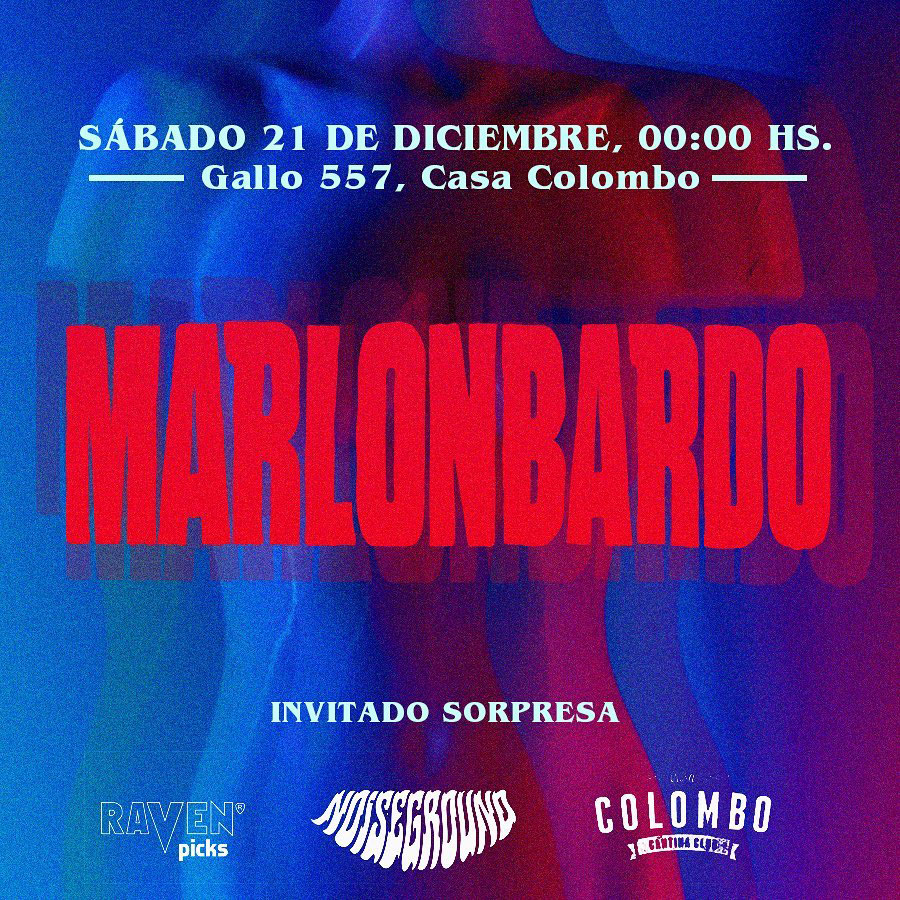
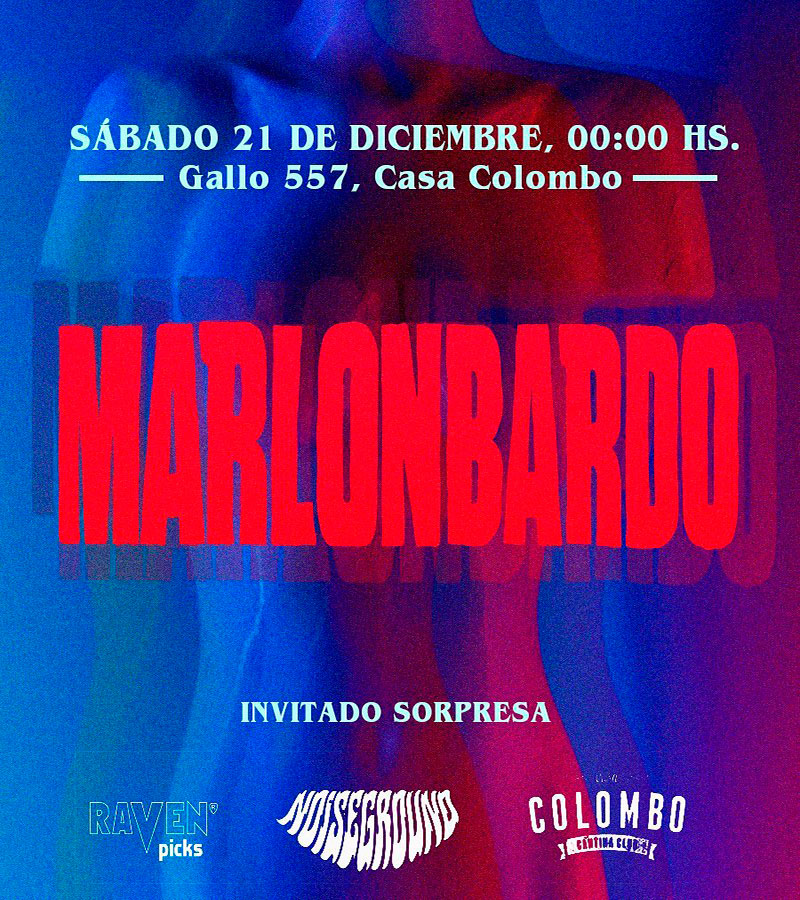
modifico tamaño imagenes

diff --git a/novedades.html b/novedades.html
@@ -54,12 +54,12 @@
   <!-- Fechas en vivo -->
 
     <div class="container col-sm-8">
-        <div class="row row-cols-sm-2 mb-4">
-          <div class="col">
-          <img class="afiche img-fluid" src="media/vivo.jpg" alt="fechas recitales">
+        <div class="col-sm row">
+          <div class="col-sm mb-4">
+          <img class="afiche img-fluid border rounded-left" src="media/vivo.jpg" alt="fechas recitales">
         </div>
-        <div class="col">
-          <img class="afiche img-fluid" src="media/vivo2.jpg" alt="fechas recitales">
+        <div class="col-sm mb-4">
+          <img class="afiche img-fluid border rounded-left" src="media/vivo2.jpg" alt="fechas recitales">
         </div>
       </div>
       </div>

diff --git a/scss/_variables.scss b/scss/_variables.scss
@@ -3,6 +3,5 @@ $color-prinicipal: rgb(253, 251, 251);
 $color-secundario: grey;
 $font-size-titulos: 3em;
 $font-size: 1.5em;
-$background-color: black;
 $font-size-parpadeo: 2.5em;
 
